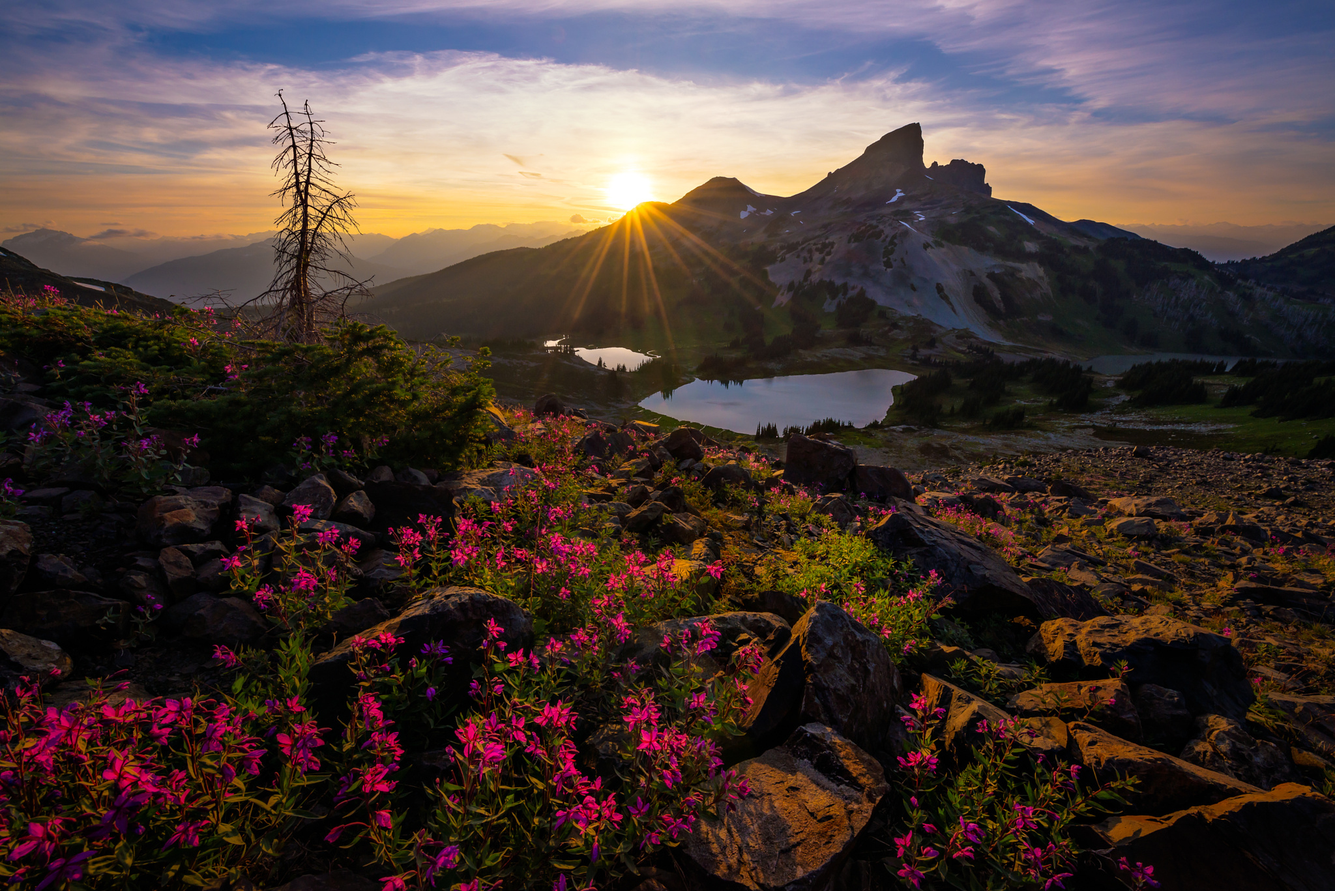
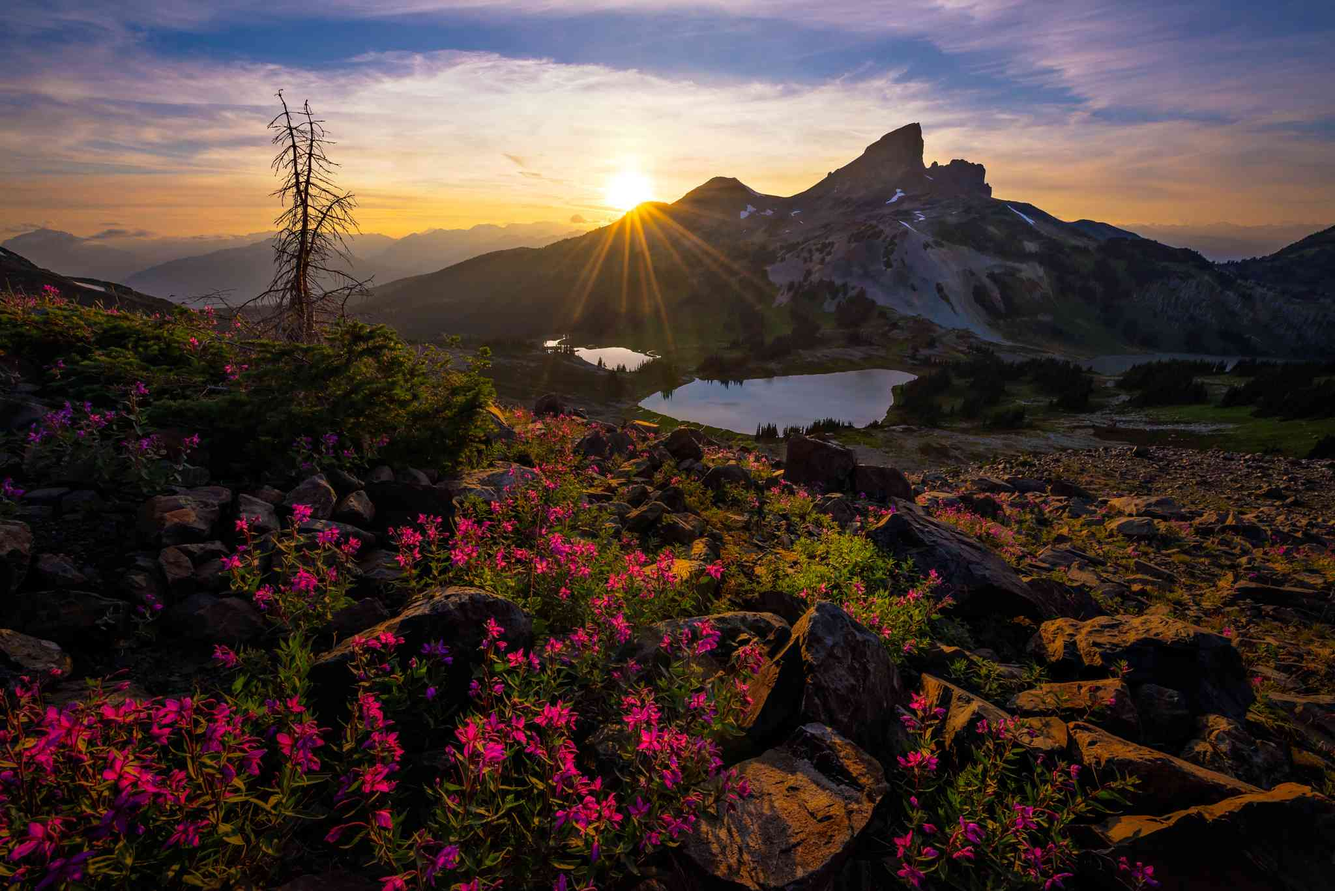
Update

diff --git a/gulpfile.js b/gulpfile.js
@@ -7,7 +7,6 @@ const prefixer = require('gulp-autoprefixer');
 const sass = require('gulp-sass');
 const cssmin = require('gulp-minify-css');
 const del = require('del');
-const imagemin = require('gulp-imagemin');
 const browserSync = require("browser-sync");
 const reload = browserSync.reload;
 
@@ -87,7 +86,6 @@ gulp.task('style:build', () => {
 
 gulp.task('image:build', () => {
   gulp.src(path.src.img)
-    .pipe(imagemin())
     .pipe(gulp.dest(path.public.img))
     .pipe(reload({stream: true}));
 });

diff --git a/src/style/main.scss b/src/style/main.scss
@@ -90,8 +90,8 @@ main {
 
   li {
     background: rgba(30, 25, 24, 0.4);
-    padding-top: 2%;
-    padding-bottom: 2%;
+    padding-top: 2vh;
+    padding-bottom: 2vh;
     border-radius: 5px;
     cursor: pointer;
     color: yellow;

diff --git a/src/js/script1.js b/src/js/script1.js
@@ -27,4 +27,4 @@ function handleEnter() {
   }
 }
 
-navItems.forEach(item => item.addEventListener('mouseenter', handleEnter));
+[].slice.call(navItems).forEach(item => item.addEventListener('mouseenter', handleEnter));
